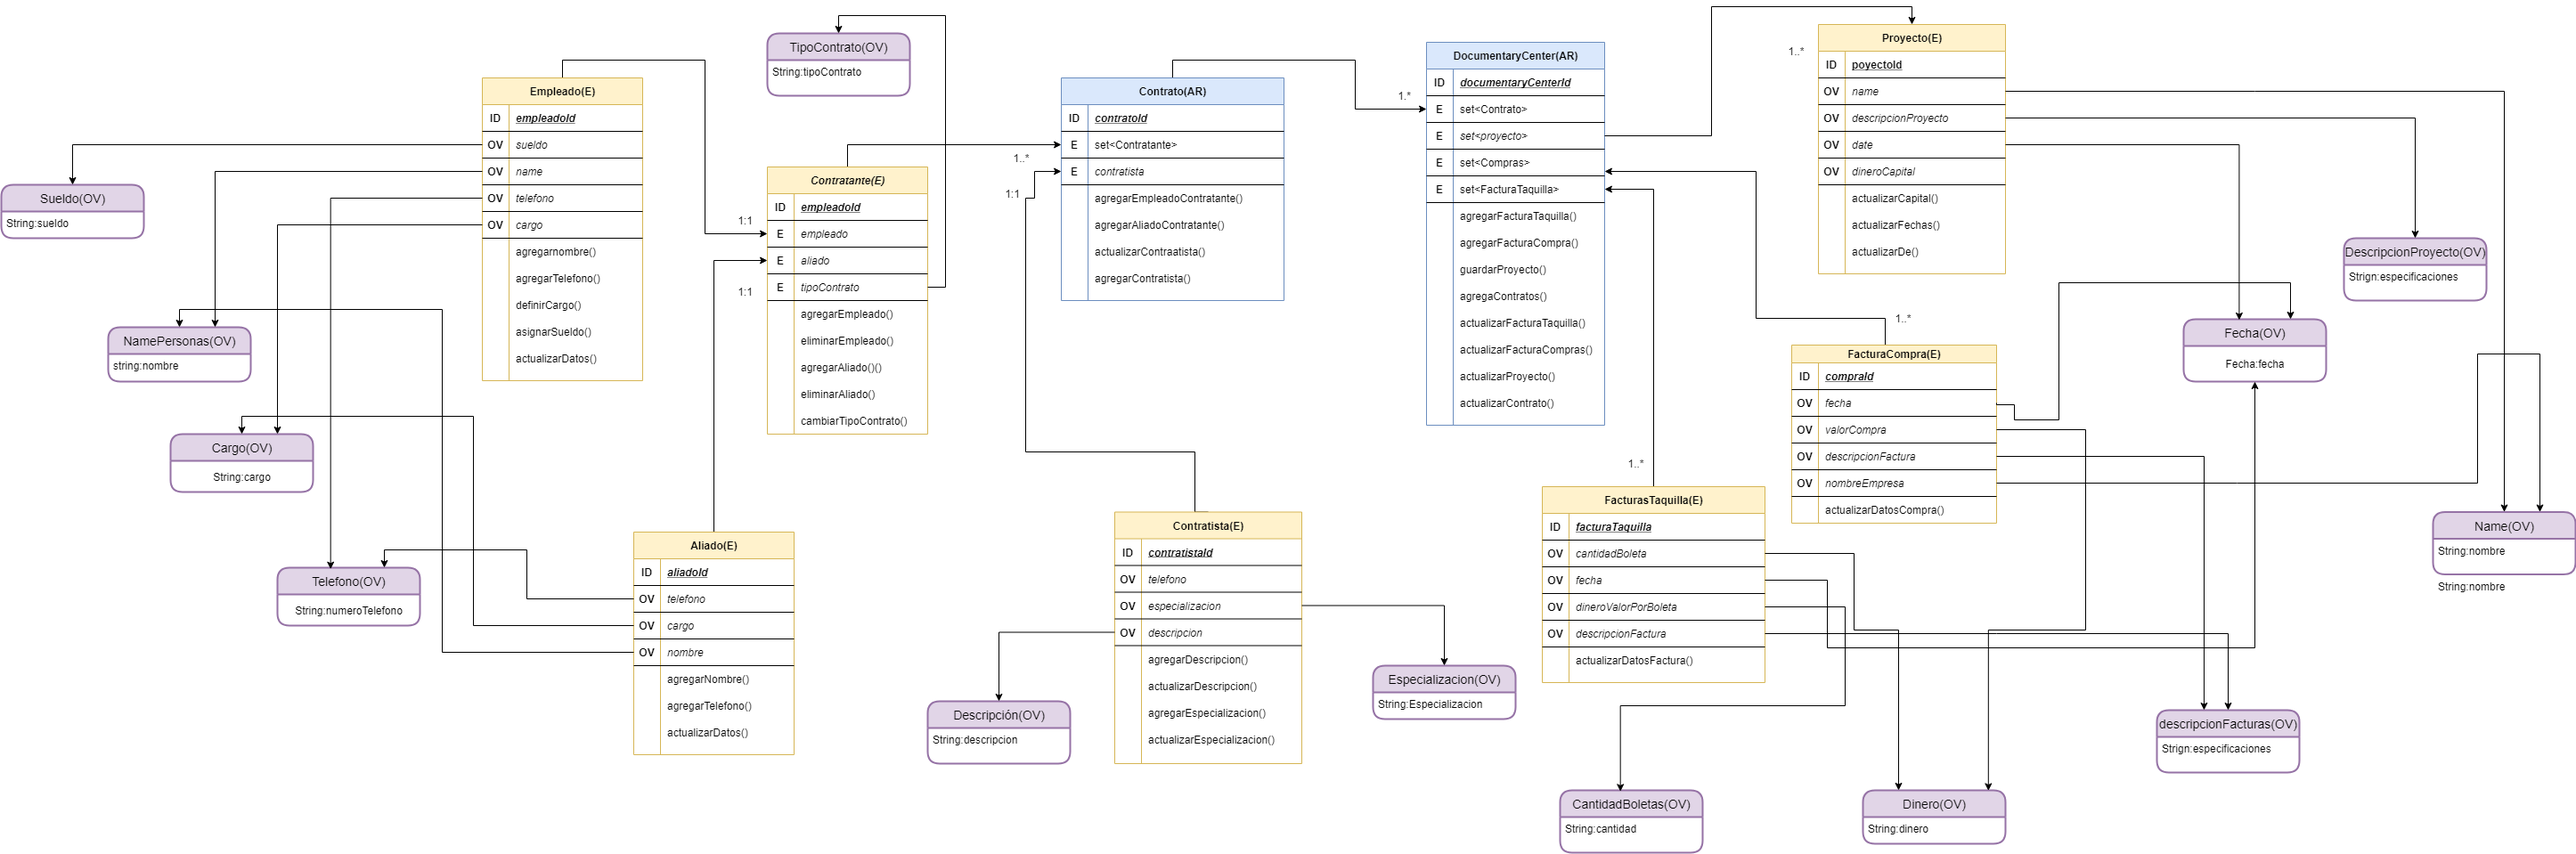
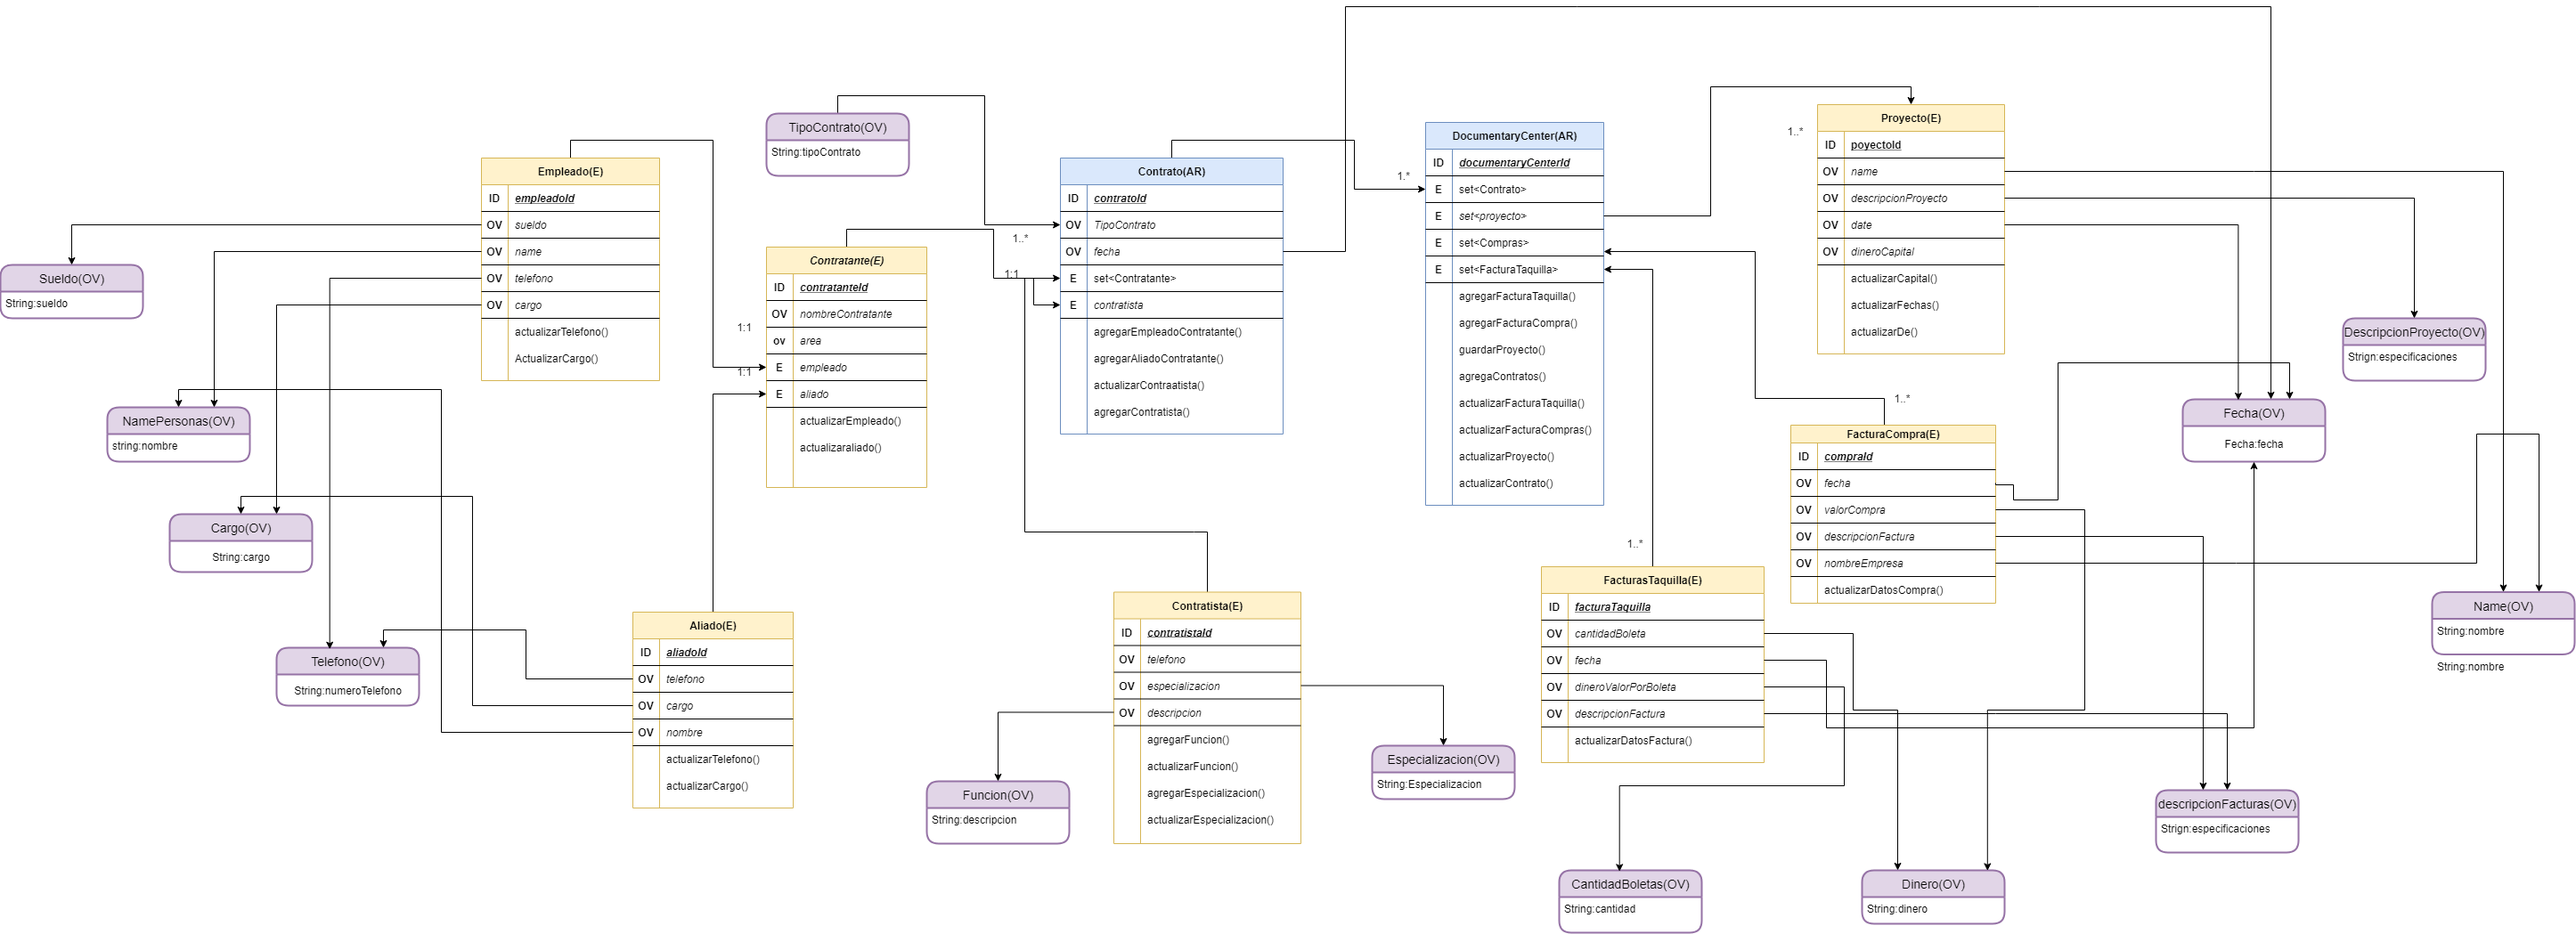
Agregando el AR Contract

diff --git a/src/main/java/com/sofka/domainPaqueExplora/domain/contract/Contract.java b/src/main/java/com/sofka/domainPaqueExplora/domain/contract/Contract.java
@@ -1,11 +1,68 @@
 package com.sofka.domainPaqueExplora.domain.contract;
 
 import co.com.sofka.domain.generic.AggregateEvent;
-import com.sofka.domainPaqueExplora.domain.contract.valueobject.ContractId;
+import com.sofka.domainPaqueExplora.domain.contract.entity.Builder;
+import com.sofka.domainPaqueExplora.domain.contract.entity.Contractor;
+import com.sofka.domainPaqueExplora.domain.contract.event.ContractCreate;
+import com.sofka.domainPaqueExplora.domain.contract.event.ContractTypeChanged;
+import com.sofka.domainPaqueExplora.domain.contract.valueobject.*;
+import com.sofka.domainPaqueExplora.domain.documentarycenter.valueobject.Name;
+
+import java.util.Objects;
+import java.util.Set;
 
 public class Contract extends AggregateEvent<ContractId> {
 
-    public Contract(ContractId entityId) {
+    protected ContractType contractType;
+    protected Set<Contractor> contrators;
+    protected Set<Builder> builders;
+
+    public Contract(ContractId entityId, ContractType contractType){
         super(entityId);
+        appendChange(new ContractCreate(contractType)).apply();
+    }
+
+    /**
+    public void addEmployeeContractor(ContractId contractId,ContractorId contractorId, Name nameContractor, EmpleoyeeId empleoyeeId, Name nameEmployee, Salary salary, Telephone telephone, Post post){
+        Objects.requireNonNull(contractId);
+        Objects.requireNonNull(empleoyeeId);
+        Objects.requireNonNull(nameEmployee);
+        Objects.requireNonNull(salary);
+        Objects.requireNonNull(telephone);
+        Objects.requireNonNull(post);
+        Objects.requireNonNull(contractorId);
+        Objects.requireNonNull(nameContractor);
+        appendChange(new EmpleoyeeContractAggregate(ContractId contractId,ContractorId contractorId, Name nameContractor, EmpleoyeeId empleoyeeId, Name nameEmployee, Salary salary, Telephone telephone, Post post)).apply();
+    }
+
+
+    public void addAllyContractor(ContractId contractId, ContractorId contractorId, Name nameContractor, AllyId allyId, Name nameAlly, Telephone telephone, Post post){
+        Objects.requireNonNull(contractId);
+        Objects.requireNonNull(allyId);
+        Objects.requireNonNull(nameAlly);
+        Objects.requireNonNull(telephone);
+        Objects.requireNonNull(post);
+        Objects.requireNonNull(contractorId);
+        Objects.requireNonNull(nameContractor);
+        appendChange(new AllyContractorAggregate(contractId,contractorId, nameContractor, allyId, nameAlly,telephone, post)).apply();
+    }
+
+*/
+
+    public void renameContract(ContractType contractType){
+        appendChange(new ContractTypeChanged(contractType)).apply();
+    }
+
+
+    public ContractType getContractType() {
+        return contractType;
+    }
+
+    public Set<Contractor> getContrators() {
+        return contrators;
+    }
+
+    public Set<Builder> getBuilders() {
+        return builders;
     }
 }

diff --git a/src/main/java/com/sofka/domainPaqueExplora/domain/contract/entity/Contractor.java b/src/main/java/com/sofka/domainPaqueExplora/domain/contract/entity/Contractor.java
@@ -1,4 +1,55 @@
 package com.sofka.domainPaqueExplora.domain.contract.entity;
 
-public class Contractor {
+import co.com.sofka.domain.generic.Entity;
+import co.com.sofka.domain.generic.Identity;
+import com.sofka.domainPaqueExplora.domain.contract.valueobject.*;
+import com.sofka.domainPaqueExplora.domain.documentarycenter.valueobject.Name;
+
+import java.util.Objects;
+
+public class Contractor  extends Entity {
+    private Name NameContractor;
+    private Employee employee;
+    private Ally ally;
+    private Contractor contractor;
+
+    public Contractor(Identity entityId, Name nameContractor) {
+        super(entityId);
+        NameContractor = nameContractor;
+    }
+
+    public Employee EmpoyyeeCreater(EmpleoyeeId empleoyeeId, Name name, Salary salary,Telephone telephone, Post post){
+        Objects.requireNonNull(empleoyeeId);
+        Objects.requireNonNull(name);
+        Objects.requireNonNull(salary);
+        Objects.requireNonNull(telephone);
+        Objects.requireNonNull(post);
+        var employee=new Employee(empleoyeeId,name, salary,telephone,post);
+            return employee;
+    }
+
+    public Ally AllyCreater(AllyId allyId, Name name, Telephone telephone, Post post){
+        Objects.requireNonNull(allyId);
+        Objects.requireNonNull(name);
+        Objects.requireNonNull(telephone);
+        Objects.requireNonNull(post);
+        var ally=new Ally(allyId,name,telephone,post);
+        return ally;
+    }
+
+
+    public void upgradeEmpleoyeeTelephone(Telephone telephone) {
+        Objects.requireNonNull(telephone);
+        this.employee.upgradeTelephone(telephone);
+    }
+
+    public void upgradeAllyTelepone(Telephone telephone){
+        Objects.requireNonNull(telephone);
+        this.ally.upgradeTelephone(telephone);
+         }
+
+
+    public Name getNameContractor() {
+        return NameContractor;
+    }
 }

diff --git a/src/main/java/com/sofka/domainPaqueExplora/domain/contract/entity/Employee.java b/src/main/java/com/sofka/domainPaqueExplora/domain/contract/entity/Employee.java
@@ -1,0 +1,49 @@
+package com.sofka.domainPaqueExplora.domain.contract.entity;
+
+import co.com.sofka.domain.generic.Entity;
+import com.sofka.domainPaqueExplora.domain.contract.valueobject.EmpleoyeeId;
+import com.sofka.domainPaqueExplora.domain.contract.valueobject.Post;
+import com.sofka.domainPaqueExplora.domain.contract.valueobject.Salary;
+import com.sofka.domainPaqueExplora.domain.contract.valueobject.Telephone;
+import com.sofka.domainPaqueExplora.domain.documentarycenter.valueobject.Name;
+
+import java.util.Objects;
+
+public class Employee extends Entity<EmpleoyeeId>{
+    private Name name;
+    private Salary salary;
+    private Telephone telephone;
+    private Post post;
+
+    public Employee(EmpleoyeeId entityId, Name name, Salary salary, Telephone telephone, Post post) {
+        super(entityId);
+        this.name = name;
+        this.salary = salary;
+        this.telephone = telephone;
+        this.post = post;
+    }
+    public void upgradeTelephone(Telephone telephone){
+        this.telephone = Objects.requireNonNull(telephone);
+    }
+
+
+    public void upgradePost(Post post){
+        this.post = Objects.requireNonNull(post);
+    }
+
+    public Name getName() {
+        return name;
+    }
+
+    public Salary getSalary() {
+        return salary;
+    }
+
+    public Telephone getTelephone() {
+        return telephone;
+    }
+
+    public Post getPost() {
+        return post;
+    }
+}

diff --git a/src/main/java/com/sofka/domainPaqueExplora/domain/contract/entity/Builder.java b/src/main/java/com/sofka/domainPaqueExplora/domain/contract/entity/Builder.java
@@ -1,4 +1,41 @@
 package com.sofka.domainPaqueExplora.domain.contract.entity;
 
-public class Builder {
+import co.com.sofka.domain.generic.Entity;
+import co.com.sofka.domain.generic.Identity;
+import com.sofka.domainPaqueExplora.domain.contract.valueobject.*;
+
+import java.util.Objects;
+
+public class Builder extends Entity {
+    private Telephone telephone;
+    private Function function;
+    private Specialization specialization;
+
+    public Builder(Identity entityId, Telephone telephone, Function function, Specialization specialization) {
+        super(entityId);
+        this.telephone = telephone;
+        this.function = function;
+        this.specialization = specialization;
+    }
+
+    public void upgradeFunction(Function function){
+
+        this.function = Objects.requireNonNull(function);
+    }
+
+    public void upgradeSpecialization(Specialization specialization){
+        this.specialization = Objects.requireNonNull(specialization);
+    }
+
+    public void setTelephone(Telephone telephone) {
+        this.telephone = telephone;
+    }
+
+    public void setFunction(Function function) {
+        this.function = function;
+    }
+
+    public void setSpecialization(Specialization specialization) {
+        this.specialization = specialization;
+    }
 }

diff --git a/src/main/java/com/sofka/domainPaqueExplora/domain/contract/entity/Ally.java b/src/main/java/com/sofka/domainPaqueExplora/domain/contract/entity/Ally.java
@@ -1,0 +1,42 @@
+package com.sofka.domainPaqueExplora.domain.contract.entity;
+
+import co.com.sofka.domain.generic.Entity;
+import com.sofka.domainPaqueExplora.domain.contract.valueobject.AllyId;
+import com.sofka.domainPaqueExplora.domain.contract.valueobject.Post;
+import com.sofka.domainPaqueExplora.domain.contract.valueobject.Telephone;
+import com.sofka.domainPaqueExplora.domain.documentarycenter.valueobject.Name;
+
+import java.util.Objects;
+
+public class Ally extends Entity<AllyId>{
+    private Name name;
+    private Telephone telephone;
+    private Post post;
+
+
+    public Ally(AllyId entityId, Name name, Telephone telephone, Post post) {
+        super(entityId);
+        this.name=name;
+        this.telephone=telephone;
+        this.post=post;
+
+    }
+
+
+    public void upgradeTelephone(Telephone telephone){
+
+        this.telephone = Objects.requireNonNull(telephone);
+    }
+
+    public Name getName() {
+        return name;
+    }
+
+    public Telephone getTelephone() {
+        return telephone;
+    }
+
+    public Post getPost() {
+        return post;
+    }
+}

diff --git a/src/main/java/com/sofka/domainPaqueExplora/domain/contract/event/ContractTypeChanged.java b/src/main/java/com/sofka/domainPaqueExplora/domain/contract/event/ContractTypeChanged.java
@@ -1,0 +1,17 @@
+package com.sofka.domainPaqueExplora.domain.contract.event;
+
+import co.com.sofka.domain.generic.DomainEvent;
+import com.sofka.domainPaqueExplora.domain.contract.valueobject.ContractType;
+
+public class ContractTypeChanged extends DomainEvent {
+    private final ContractType contractType;
+
+    public ContractTypeChanged(ContractType contractType) {
+        super("parqueexplora.bodega.tipocontratocambiado");
+        this.contractType = contractType;
+    }
+
+    public ContractType getContractType() {
+        return contractType;
+    }
+}

diff --git a/src/main/java/com/sofka/domainPaqueExplora/domain/contract/event/ContractCreate.java b/src/main/java/com/sofka/domainPaqueExplora/domain/contract/event/ContractCreate.java
@@ -1,0 +1,16 @@
+package com.sofka.domainPaqueExplora.domain.contract.event;
+
+import co.com.sofka.domain.generic.DomainEvent;
+import com.sofka.domainPaqueExplora.domain.contract.valueobject.ContractType;
+
+public class ContractCreate extends DomainEvent {
+    private final ContractType contractType;
+    public ContractCreate(ContractType contractType) {
+        super("parqueexplora.bodega.contratocreado");
+        this.contractType=contractType;
+    }
+
+    public ContractType getContractType() {
+        return contractType;
+    }
+}

diff --git a/src/main/java/com/sofka/domainPaqueExplora/domain/contract/valueobject/Specialization.java b/src/main/java/com/sofka/domainPaqueExplora/domain/contract/valueobject/Specialization.java
@@ -1,0 +1,11 @@
+package com.sofka.domainPaqueExplora.domain.contract.valueobject;
+
+import co.com.sofka.domain.generic.ValueObject;
+
+public class Specialization implements ValueObject<String> {
+
+    @Override
+    public String value() {
+        return null;
+    }
+}

diff --git a/src/main/java/com/sofka/domainPaqueExplora/domain/contract/valueobject/ContractType.java b/src/main/java/com/sofka/domainPaqueExplora/domain/contract/valueobject/ContractType.java
@@ -1,0 +1,10 @@
+package com.sofka.domainPaqueExplora.domain.contract.valueobject;
+
+import co.com.sofka.domain.generic.ValueObject;
+
+public class ContractType implements ValueObject<String> {
+    @Override
+    public String value() {
+        return null;
+    }
+}

diff --git a/src/main/java/com/sofka/domainPaqueExplora/domain/contract/valueobject/Telephone.java b/src/main/java/com/sofka/domainPaqueExplora/domain/contract/valueobject/Telephone.java
@@ -1,0 +1,11 @@
+package com.sofka.domainPaqueExplora.domain.contract.valueobject;
+
+import co.com.sofka.domain.generic.ValueObject;
+
+public class Telephone implements ValueObject<String> {
+
+    @Override
+    public String value() {
+        return null;
+    }
+}

diff --git a/src/main/java/com/sofka/domainPaqueExplora/domain/contract/valueobject/Function.java b/src/main/java/com/sofka/domainPaqueExplora/domain/contract/valueobject/Function.java
@@ -1,0 +1,10 @@
+package com.sofka.domainPaqueExplora.domain.contract.valueobject;
+
+import co.com.sofka.domain.generic.ValueObject;
+
+public class Function implements ValueObject<String> {
+    @Override
+    public String value() {
+        return null;
+    }
+}

diff --git a/src/main/java/com/sofka/domainPaqueExplora/domain/contract/valueobject/Post.java b/src/main/java/com/sofka/domainPaqueExplora/domain/contract/valueobject/Post.java
@@ -1,0 +1,12 @@
+package com.sofka.domainPaqueExplora.domain.contract.valueobject;
+
+import co.com.sofka.domain.generic.ValueObject;
+
+public class Post implements ValueObject<String> {
+
+    @Override
+    public String value() {
+        return null;
+    }
+
+}
